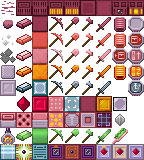
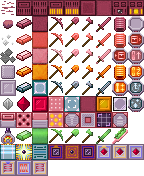
added Thermal Distributor

diff --git a/split_textures.py b/split_textures.py
@@ -17,7 +17,8 @@ TEXTURE_FILES = [
     [None, MT('item_thermese'), MT('block_thermese'), MT('frame_tste'), MT('frame_cgls'), MT('frame_raw'), MT('block_thermese_hot'), MT('item_htg'), MT('upg_cryst')],
     [MT('htfurn_front'), MT('htfurn_top_unlit'), MT('htfurn_sides'), MT('htfurn_top_lit'), MT('vulcan_sides'), MT('vulcan_top'), MT('htr_solar_top'), MT('vulcan_front')],
     [MT('item_heatunit'), MT('ingot_tcha'), MT('block_tcha'), MT('tool_pick_tcha'), MT('tool_shovel_tcha'), MT('tool_axe_tcha'), MT('tool_sword_tcha'), MT('tool_ore_saw')],
-    [MT('hray_sides'), MT('hray_front'), MT('hray_back'), MT('rayref_sides'), MT('rayref_front'), MT('rayref_back'), MT('tbox_sides'), MT('tbox_front'), MT('tbox_back')]
+    [MT('hray_sides'), MT('hray_front'), MT('hray_back'), MT('rayref_sides'), MT('rayref_front'), MT('rayref_back'), MT('tbox_sides'), MT('tbox_front'), MT('tbox_back')],
+    [MT('tdis_sides'), MT('tdis_front'), MT('tdis_back')]
 ]
 
 with Image(filename=SOURCE_FILE) as source:

diff --git a/changelog.md b/changelog.md
@@ -13,6 +13,7 @@ Newer versions listed first
 * The mystique of heat power and its measurement is now gone; the actual number of HU (heat units) in a machine are now shown on their GUIs, underneath the heat bar.
 * The front of Crystal Vulcanizers now has a different texture to differentiate it from its sides.
 * Last but not least, Thermoboxes finally function! They are a combination heat-storage device and also director of heat. Five of its six sides (blue marked ones) act as usual inputs from adjacent heaters, HEAT rays or even other thermoboxes, while its output (the orange-marked side) will send heat to an adjacent machine.
+* To accompany the Thermobox, its slightly cheaper and opposite cousin the Thermal Distributor has been added as well. It doesn't store nearly as much heat, but given a heat input on its blue side it will equally distribute heat to machines at its orange sides.
 
 ### Version 1.9
 * "Solar Glass" is now "Heat-transference Glass" to reflect its expanded use. Additionally, you now get 3 of them for one recipe.
